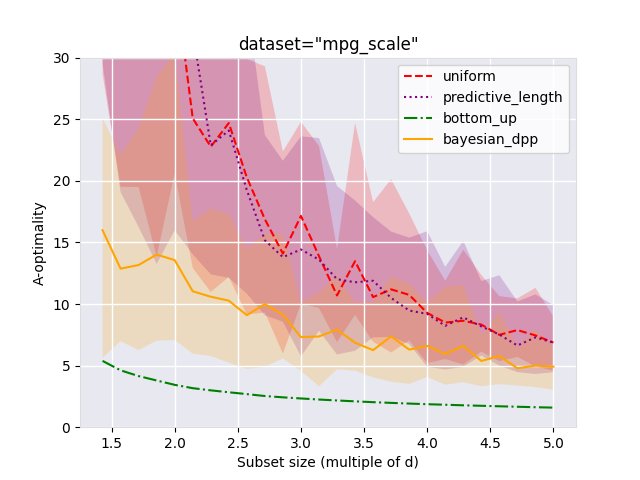
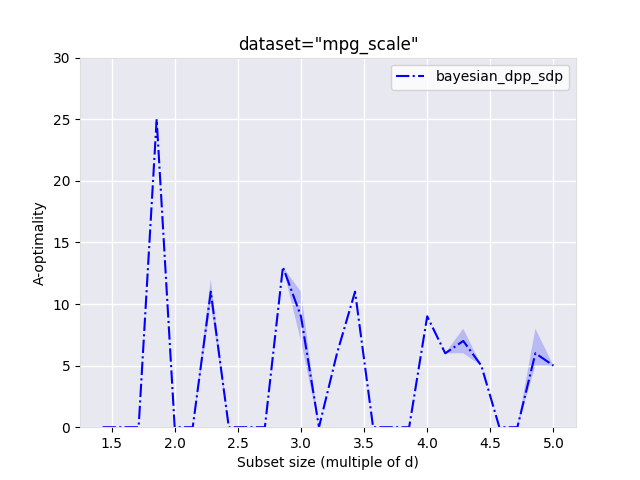
Bayesian dpp with sdp (!) added to experiment pipeline

diff --git a/run.py b/run.py
@@ -82,16 +82,16 @@ def do_experiment(X: np.ndarray,
                 selected_samples, score = selection_func(X=X, A=A, k=k)
                 if len(selected_samples) in scores:
                     scores[len(selected_samples)].append(score)
-
-        scores_mean = np.empty_like(k_linspace)
-        scores_top = np.empty_like(k_linspace)
-        scores_down = np.empty_like(k_linspace)
-
-        for k_ix, k in k_linspace:
+        scores_mean = np.zeros_like(k_linspace)
+        scores_top = np.zeros_like(k_linspace)
+        scores_down = np.zeros_like(k_linspace)
+        for k_ix, k in enumerate(k_linspace):
             current_scores = scores[k]
-            scores_mean[k_ix] = np.mean(current_scores)
-            scores_top[k_ix] = np.percentile(current_scores, 100 - 100 * (alpha/2))
-            scores_down[k_ix] = np.percentile(current_scores, 100 * (alpha/2))
+            if len(current_scores) > 0:
+                scores_mean[k_ix] = np.mean(current_scores)
+                scores_top[k_ix] = np.percentile(current_scores, 100 - 100 * (alpha/2))
+                scores_down[k_ix] = np.percentile(current_scores, 100 * (alpha/2))
+
     else:
         scores = np.empty((len(k_linspace), bootsrtap_size), dtype=float)
         for bootsrtap_ix in tqdm(range(bootsrtap_size)):
@@ -137,7 +137,8 @@ if __name__=="__main__":
     X = df.values[:, 1:] # zero is taget
     print(f'dataframe shape: {X.shape}')
     plot_objects = []
-    for method in ['uniform', 'predictive_length', 'bottom_up', 'bayesian_dpp']:
+    #for method in ['uniform', 'predictive_length', 'bottom_up', 'bayesian_dpp']:
+    for method in ['bayesian_dpp_sdp']:
         obj_to_plot = do_experiment(X, method=method,
                                     bootsrtap_size=args.bootsrt_size,
                                     alpha=args.alpha)

diff --git a/modules/sdp.py b/modules/sdp.py
@@ -21,5 +21,4 @@ def sdp(X, A, k, optimalty_func):
 
     prob = cp.Problem(cp.Minimize(func(p)), constraints)
     prob.solve()
-
     return np.array(p.value).astype(float)
